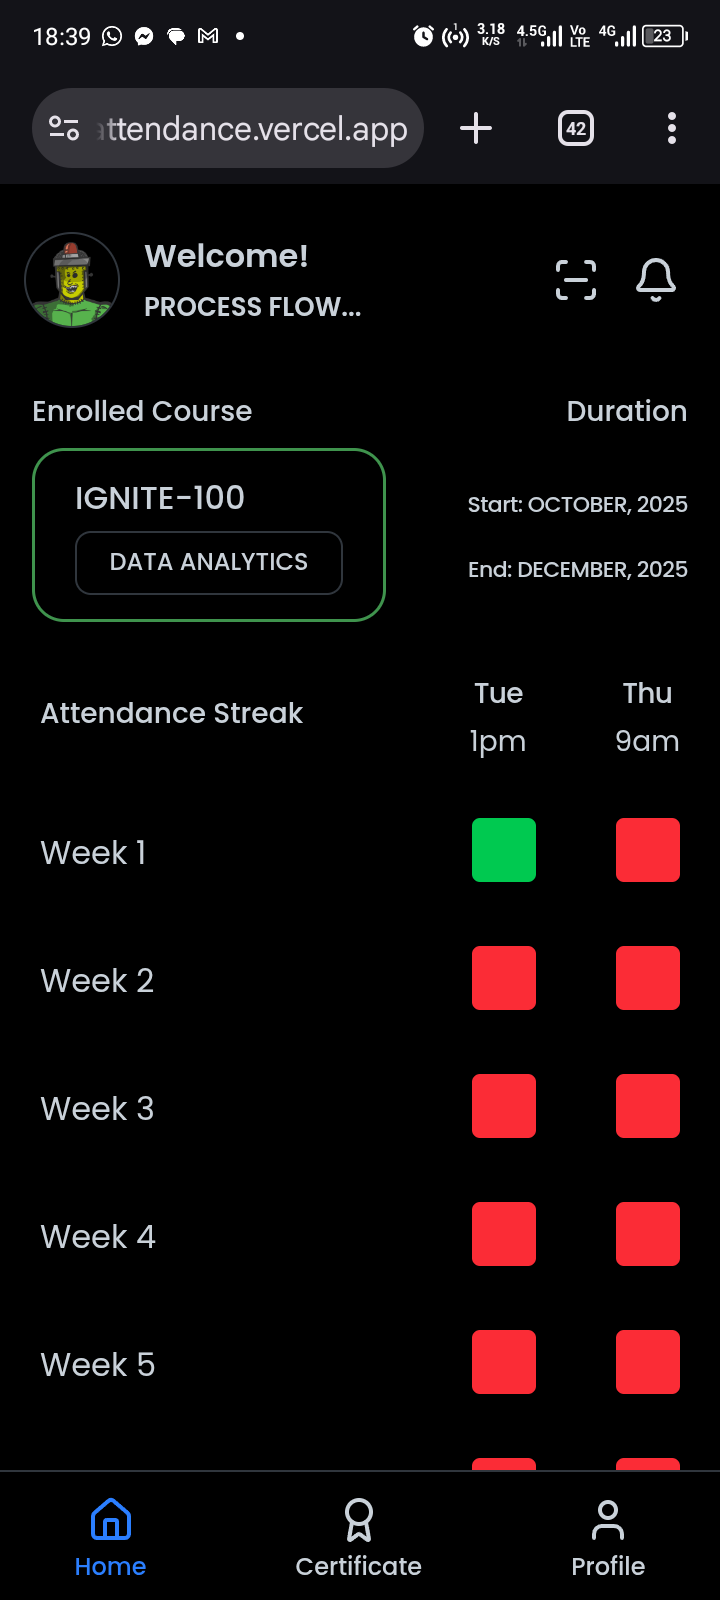
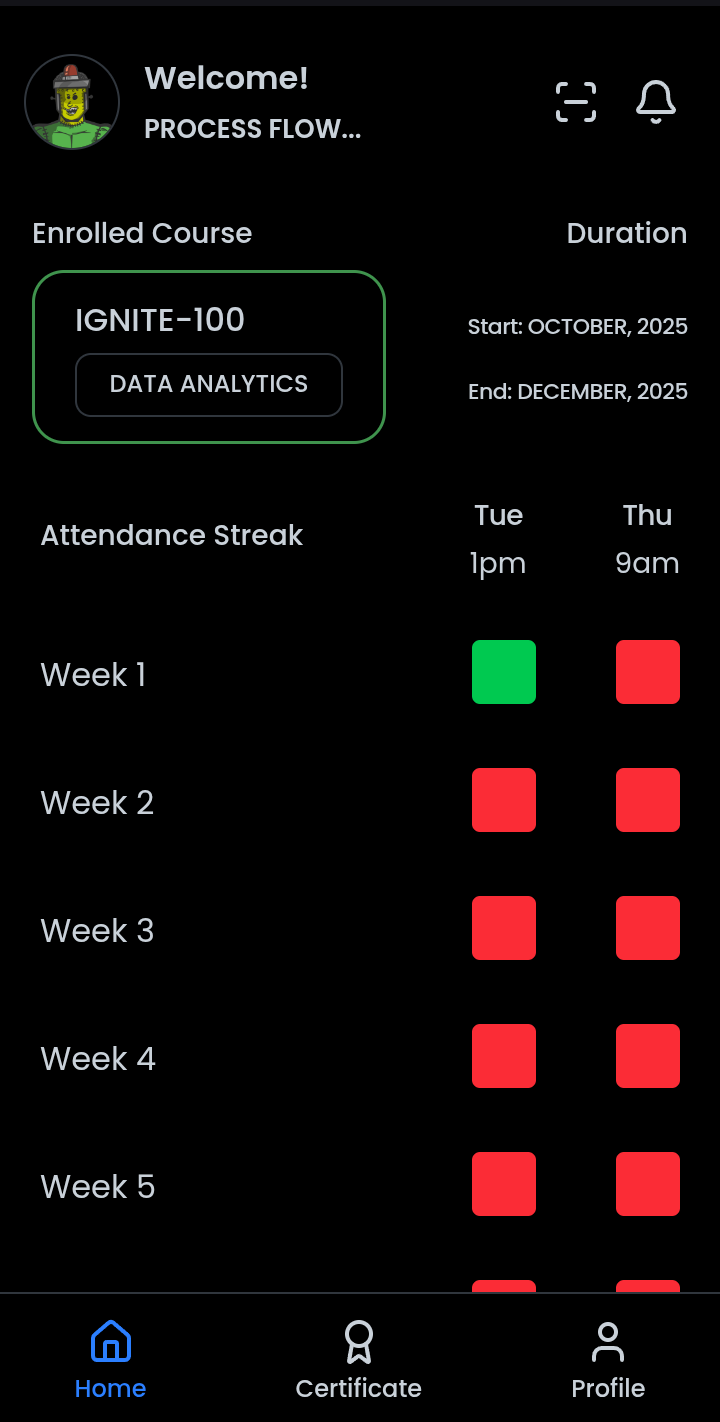
main

diff --git a/lib/content.ts b/lib/content.ts
@@ -72,8 +72,8 @@ export const content = {
     {
       title: "Attendance System",
       description:
-        "A check-in/check-out attendance system I built for my tech company — daily QR code generation and scanning, employee onboarding, and attendance reports.",
-      tech: ["Next.js", "TypeScript", "Node.js", "MongoDB"],
+        "A check-in/check-out attendance system I built for my tech company — daily QR code generation and scanning, student onboarding, and attendance reports.",
+      tech: ["Next.js", "TypeScript", "Node.js", "Firebase"],
       liveUrl: "https://mytechtan-attendance.vercel.app",
       githubUrl: "https://github.com/processphere",
       image: "/images/project-1a.png",
@@ -83,6 +83,12 @@ export const content = {
       // Optional per-image captions, shown above each screenshot in the
       // gallery. One string per image (main image first), in order.
       captions: [],
+      features: [
+        "Daily QR code generation per employee",
+        "QR check-in / check-out scanning",
+        "Employee onboarding and profiles",
+        "Attendance reports and exports",
+      ],
       emoji: "01",
       featured: true,
     },
@@ -102,19 +108,41 @@ export const content = {
         "/images/project-2f.png",
       ], // e.g. ["/images/project-two-b.png"]
       captions: [],
+      features: [
+        "Profile creation and editing",
+        "Personal and home feeds",
+        "Reels with video upload and playback",
+        "Likes, comments, and follows",
+        "Push notifications",
+      ],
       emoji: "02",
       featured: true,
     },
     {
-      title: "Project Three",
+      title: "Deambrose Socials",
       description:
-        "Replace me with a real project. Keep the description tight — what you built, and why it was worth building.",
-      tech: ["Next.js", "Tailwind", "REST APIs"],
-      liveUrl: "",
+        "A social media marketplace web app where users buy and sell securely — real money transactions handled end to end, backed by a powerful admin dashboard.",
+      tech: ["Next.js", "TypeScript", "Tailwind", "Neon"],
+      liveUrl: "https://deambrosesocials.com",
       githubUrl: "https://github.com/processphere",
-      image: "", // e.g. "/images/project-three.png"
-      screenshots: [],
+      image: "/images/project-3a.png", // e.g. "/images/project-three.png"
+      screenshots: [
+        "/images/project-3b.png",
+        "/images/project-3c.png",
+        "/images/project-3d.png",
+        "/images/project-3e.png",
+        "/images/project-3f.png",
+        "/images/project-3g.png",
+      ],
       captions: [],
+      features: [
+        "User marketplace with listings and search",
+        "Social features — profiles, likes, and comments",
+        "Secure wallet with real money transactions",
+        "Escrow-style payment handling",
+        "Admin dashboard for users, listings, and payments",
+        "Transaction history and dispute management",
+      ],
       emoji: "03",
       featured: false,
     },
@@ -128,6 +156,7 @@ export const content = {
       image: "", // e.g. "/images/project-four.png"
       screenshots: [],
       captions: [],
+      features: [],
       emoji: "04",
       featured: false,
     },

diff --git a/components/projects.tsx b/components/projects.tsx
@@ -4,11 +4,13 @@ import { useState } from "react";
 import { AnimatePresence } from "framer-motion";
 import { content } from "@/lib/content";
 import { AccordionSection } from "@/components/accordion";
-import { ArrowUpRightIcon, GitHubIcon, ImagesIcon } from "@/components/icons";
+import { ArrowUpRightIcon, GitHubIcon, ImagesIcon, ListIcon } from "@/components/icons";
 import { ProjectGalleryModal } from "@/components/project-modal";
+import { FeaturesModal } from "@/components/feature-modal";
 
 export function Projects() {
   const [activeProject, setActiveProject] = useState<(typeof content.projects)[number] | null>(null);
+  const [featuresProject, setFeaturesProject] = useState<(typeof content.projects)[number] | null>(null);
 
   return (
     <AccordionSection
@@ -74,18 +76,30 @@ export function Projects() {
                     </li>
                   ))}
                 </ul>
-                <div className="mt-4 flex items-center justify-between border-t border-white/5 pt-4">
-                  {project.githubUrl && (
-                    <a
-                      href={project.githubUrl}
-                      target="_blank"
-                      rel="noopener noreferrer"
-                      className="inline-flex items-center gap-1.5 text-sm font-medium text-zinc-400 transition-colors hover:text-zinc-100"
-                    >
-                      <GitHubIcon className="h-4 w-4" />
-                      Code
-                    </a>
-                  )}
+<div className="mt-4 flex items-center justify-between border-t border-white/5 pt-4">
+                  <div className="flex items-center gap-4">
+                    {project.githubUrl && (
+                      <a
+                        href={project.githubUrl}
+                        target="_blank"
+                        rel="noopener noreferrer"
+                        className="inline-flex items-center gap-1.5 text-sm font-medium text-zinc-400 transition-colors hover:text-zinc-100"
+                      >
+                        <GitHubIcon className="h-4 w-4" />
+                        Code
+                      </a>
+                    )}
+                    {project.features?.length > 0 && (
+                      <button
+                        type="button"
+                        onClick={() => setFeaturesProject(project)}
+                        className="inline-flex items-center gap-1.5 text-sm font-medium text-zinc-400 transition-colors hover:text-zinc-100"
+                      >
+                        <ListIcon className="h-4 w-4" />
+                        Features
+                      </button>
+                    )}
+                  </div>
                   {project.liveUrl && (
                     <a
                       href={project.liveUrl}
@@ -120,6 +134,12 @@ export function Projects() {
           <ProjectGalleryModal
             project={activeProject}
             onClose={() => setActiveProject(null)}
+          />
+        )}
+        {featuresProject && (
+          <FeaturesModal
+            project={featuresProject}
+            onClose={() => setFeaturesProject(null)}
           />
         )}
       </AnimatePresence>

diff --git a/components/feature-modal.tsx b/components/feature-modal.tsx
@@ -1,0 +1,82 @@
+"use client";
+
+import { useEffect } from "react";
+import { motion } from "framer-motion";
+import { CheckIcon, CloseIcon } from "@/components/icons";
+
+export type FeaturesProject = {
+  title: string;
+  features: string[];
+};
+
+export function FeaturesModal({
+  project,
+  onClose,
+}: {
+  project: FeaturesProject;
+  onClose: () => void;
+}) {
+  useEffect(() => {
+    const previousOverflow = document.body.style.overflow;
+    document.body.style.overflow = "hidden";
+    const onKeyDown = (e: KeyboardEvent) => {
+      if (e.key === "Escape") onClose();
+    };
+    window.addEventListener("keydown", onKeyDown);
+    return () => {
+      document.body.style.overflow = previousOverflow;
+      window.removeEventListener("keydown", onKeyDown);
+    };
+  }, [onClose]);
+
+  return (
+    <motion.div
+      className="fixed inset-0 z-[80] flex items-center justify-center bg-black/80 p-4 backdrop-blur-sm"
+      initial={{ opacity: 0 }}
+      animate={{ opacity: 1 }}
+      exit={{ opacity: 0 }}
+      transition={{ duration: 0.2 }}
+      onClick={onClose}
+      role="dialog"
+      aria-modal="true"
+      aria-label={`${project.title} features`}
+    >
+      <motion.div
+        className="w-full max-w-md rounded-2xl border border-white/10 bg-zinc-950 p-6 shadow-2xl sm:p-8"
+        initial={{ opacity: 0, scale: 0.96, y: 12 }}
+        animate={{ opacity: 1, scale: 1, y: 0 }}
+        exit={{ opacity: 0, scale: 0.96, y: 12 }}
+        transition={{ duration: 0.25, ease: [0.16, 1, 0.3, 1] }}
+        onClick={(e) => e.stopPropagation()}
+      >
+        <div className="flex items-start justify-between gap-4">
+          <div>
+            <h3 className="text-xl font-semibold tracking-tight text-white">
+              {project.title}
+            </h3>
+            <p className="mt-1 font-mono text-xs text-zinc-500">
+              {project.features.length} feature{project.features.length > 1 ? "s" : ""}
+            </p>
+          </div>
+          <button
+            onClick={onClose}
+            aria-label="Close"
+            className="shrink-0 rounded-full border border-white/15 p-2 text-zinc-400 transition-colors hover:border-white/40 hover:text-white"
+          >
+            <CloseIcon className="h-5 w-5" />
+          </button>
+        </div>
+        <ul className="mt-6 space-y-3">
+          {project.features.map((feature) => (
+            <li key={feature} className="flex items-start gap-3">
+              <CheckIcon className="mt-0.5 h-4 w-4 shrink-0 text-accent" />
+              <span className="text-sm leading-relaxed text-zinc-300">
+                {feature}
+              </span>
+            </li>
+          ))}
+        </ul>
+      </motion.div>
+    </motion.div>
+  );
+}

diff --git a/components/icons.tsx b/components/icons.tsx
@@ -268,6 +268,24 @@ export function CheckIcon({ className }: IconProps) {
   );
 }
 
+export function ListIcon({ className }: IconProps) {
+  return (
+    <svg
+      viewBox="0 0 24 24"
+      fill="none"
+      stroke="currentColor"
+      strokeWidth="2"
+      strokeLinecap="round"
+      strokeLinejoin="round"
+      aria-hidden="true"
+      className={className}
+    >
+      <path d="M9 6h11M9 12h11M9 18h11" />
+      <path d="M3 6h.01M3 12h.01M3 18h.01" />
+    </svg>
+  );
+}
+
 export function ImagesIcon({ className }: IconProps) {
   return (
     <svg
